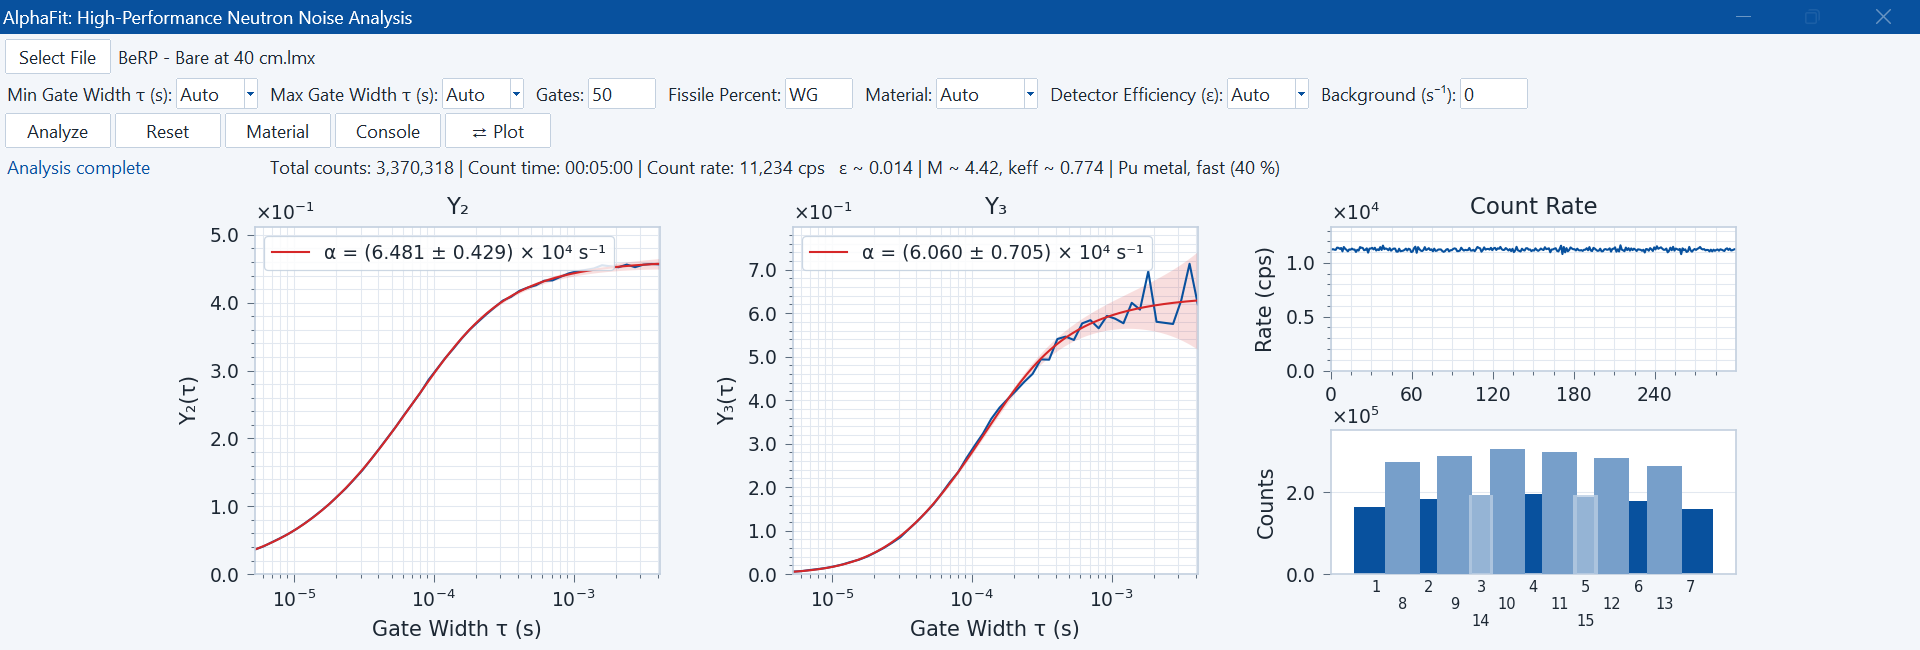
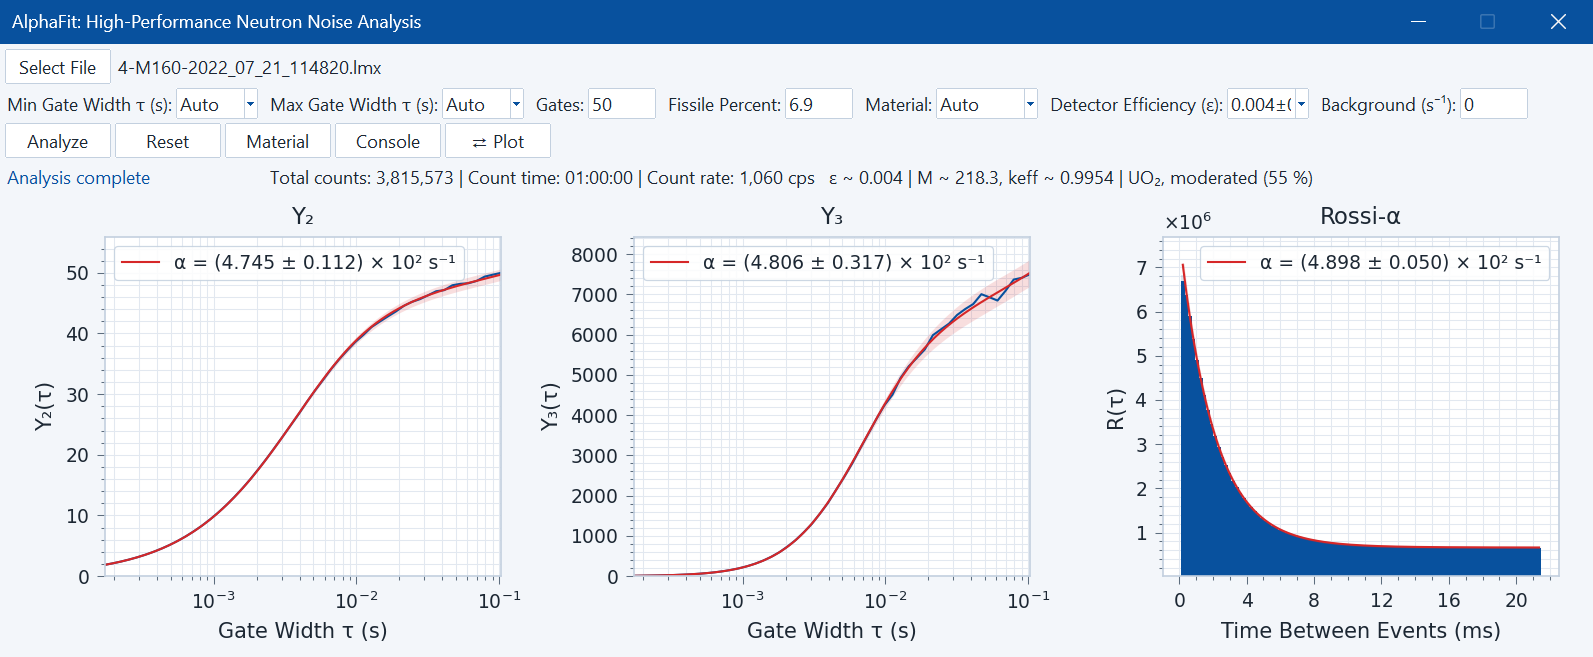
AlphaFit screenshot: real app window at its native aspect ratio (HiMu M160)

diff --git a/index.html b/index.html
@@ -123,7 +123,7 @@ html,body{overflow-x:hidden}
     <h3>AlphaFit</h3>
     <p>AlphaFit fits Feynman-&alpha; (Y<sub>2</sub> and Y<sub>3</sub>), Rossi-&alpha;, and the CPSD on the same record, estimates k<sub>eff</sub> from a delayed-neutron fit to Y<sub>2</sub> and from lag-1 autocovariance, and can analyze data while a measurement is still running.</p>
     <img src="images/alphafit_2026-11.png" alt="AlphaFit">
-    <p class="cap">BeRP ball, bare at 40 cm, 5-minute count.</p>
+    <p class="cap">HiMu M160 configuration, 1-hour count.</p>
   </div>
 </section>
 
